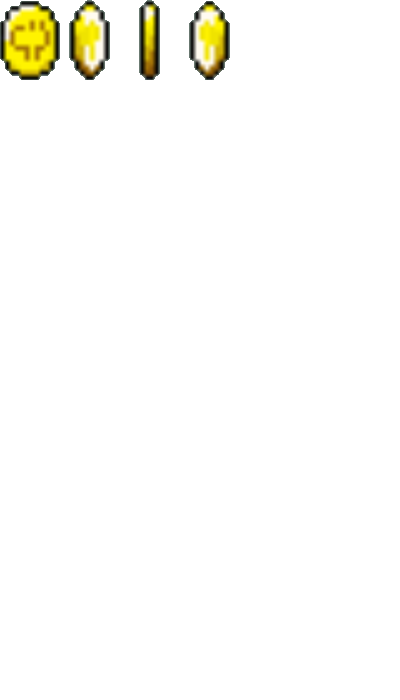
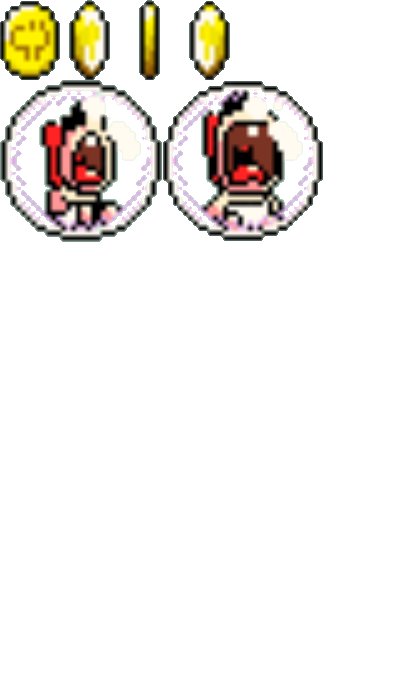
베이비마리오 이탈에 대한 구현 추가

Changed region(s): [[0.0, 0.09, 0.81, 0.36]]

diff --git a/item.py b/item.py
@@ -1,0 +1,131 @@
+import random
+from pico2d import *
+X= 0
+Y= 1
+
+class Item:
+    image = None
+    def __init__(self,x,y):
+        if Item.image == None:
+            Item.image = load_image('item.png')
+        self.x = x
+        self.y = y
+
+
+class Coin(Item):
+    frame = None
+    def __init__(self,x,y):
+        super(Coin, self).__init__(x,y)
+        self.size = [45,60]
+
+
+        if Coin.frame == None:
+            Coin.frame = 0
+
+    def draw(self,left,bottom,right,top):
+        Item.image.clip_draw(
+            60*int(Coin.frame),
+            700-80,
+            60,
+            80,
+            self.x - left + self.size[X] // 2,
+            self.y - bottom + self.size[Y] // 2,
+            self.size[X],
+            self.size[Y]
+        )
+
+    def update(self, l,b,r,t):
+        Coin.frame = (Coin.frame+0.01) % 4
+        from stage import myRect
+        temp = myRect(l,b,r,t)
+        if self.myIntersectRect(temp):
+            return 100
+
+
+    # TODO: 나중에 game_World에 넣고서 충돌체크 리팩토링 하고선 지우기
+    def myIntersectRect(self, rect):
+        if rect.left == -1: return
+        bVertical = False
+        bHorizontal = False
+
+        if self.x < rect.right and self.x + 70 > rect.left:
+            bHorizontal = True
+
+        if self.y + 85 > rect.bottom and self.y < rect.top:
+            bVertical = True
+
+        if bVertical and bHorizontal:
+            return True
+        else:
+            return False
+
+
+LEFT = 0
+RIGHT = 1
+class BabyMario(Item):
+    frame = None
+    def __init__(self,x,y):
+        super(BabyMario, self).__init__(x,y)
+        if BabyMario.frame == None:
+            BabyMario.frame = 0
+        self.size = [81,81]
+        self.gravity = 0
+        self.face = LEFT
+        self.up = False
+
+    def update(self,l,b,r,t):
+        BabyMario.frame = (BabyMario.frame+0.1)%2
+        from stage import myRect
+        if self.face == LEFT:
+            self.x-=1
+        else:
+            self.x +=1
+        self.y += self.gravity
+        if self.up:
+            self.gravity -= 0.5
+            if self.gravity == -10 :
+                self.up = False
+        else:
+            self.gravity += 0.5
+            if self.gravity == 10:
+                self.up=True
+                if random.randint(0,4)==0:
+                    if self.face ==LEFT:
+                        self.face = RIGHT
+                    else:
+                        self.face = LEFT
+
+
+        temp = myRect(l, b, r, t)
+        if self.myIntersectRect(temp):
+            return 100
+
+    def draw(self,left,bottom,right,top):
+        Item.image.clip_draw(
+            162*int(BabyMario.frame),
+            700-80-162,
+            162,
+            162,
+            self.x - left + self.size[X] // 2,
+            self.y - bottom + self.size[Y] // 2,
+            self.size[X],
+            self.size[Y]
+        )
+
+    # TODO: 나중에 game_World에 넣고서 충돌체크 리팩토링 하고선 지우기
+    def myIntersectRect(self, rect):
+        if rect.left == -1: return
+        bVertical = False
+        bHorizontal = False
+
+        if self.x < rect.right and self.x + 70 > rect.left:
+            bHorizontal = True
+
+        if self.y + 85 > rect.bottom and self.y < rect.top:
+            bVertical = True
+
+        if bVertical and bHorizontal:
+            return True
+        else:
+            return False
+

diff --git a/stage.py b/stage.py
@@ -1,7 +1,8 @@
 from pico2d import *
 import yoshi_character
 import stage_select_state
-from coin import Coin
+from item import Coin
+from item import BabyMario
 import play_state
 X = 0
 Y = 1
@@ -137,6 +138,9 @@ class StageState:
             Coin(5100,3070),
             Coin(5150,3050)
         ]
+
+        self.babymario = None
+
         self.finishLine = myRect(5747,2870,6139,3262)
 
         self.coin_num = 0
@@ -197,6 +201,10 @@ class StageState:
         for coin in self.coins:
             coin.draw(self.cameraPos[X],self.cameraPos[Y],self.cameraPos[X]+self.cameraSize[X],self.cameraPos[Y]+self.cameraSize[Y])
 
+        #베이비마리오 그리기
+        if self.babymario!=None:
+            self.babymario.draw(self.cameraPos[X],self.cameraPos[Y],self.cameraPos[X]+self.cameraSize[X],self.cameraPos[Y]+self.cameraSize[Y])
+
         #충돌체크 사각형 출력
         # for rect in self.groundRect:
         #     if rect.myIntersectRect(self.cameraPos[X], self.cameraPos[Y], self.cameraPos[X] + self.cameraSize[X],self.cameraPos[Y] + self.cameraSize[Y]):
@@ -218,6 +226,11 @@ class StageState:
             if coin.update(play_state.yoshi.x,play_state.yoshi.y,play_state.yoshi.size[X]+play_state.yoshi.x,play_state.yoshi.y+play_state.yoshi.size[Y])==100:
                 self.coins.remove(coin)
                 self.coin_num+=1
+        if self.babymario!= None:
+            if self.babymario.update(play_state.yoshi.x,play_state.yoshi.y,play_state.yoshi.size[X]+play_state.yoshi.x,play_state.yoshi.y+play_state.yoshi.size[Y]) == 100:
+                play_state.yoshi.state = "MARIO"
+                self.babymario = None
+
     def cameraMove(self):
         self.cameraPos[X] += self.dir[X]*self.cameraSpeed
         self.cameraPos[Y] += self.dir[Y]*self.cameraSpeed

diff --git a/yoshi_character.py b/yoshi_character.py
@@ -2,6 +2,8 @@ from pico2d import *
 import random
 import game_framework
 import finish_state
+import play_state
+import item
 
 yoshi_state = {"MARIO": 0 , "NOMARIO":1, "MARIO_SWALLOW":2, "NOMARIO_SWALLOW":3}
 X = 0
@@ -727,7 +729,9 @@ class Yoshi:
         from stage import myRect
         a = myRect(enemies.x, enemies.y, enemies.x+60,enemies.y+80)
         if self.myIntersectRect(a):
-            self.state = "NOMARIO"
+            if self.state == "MARIO":
+                self.state = "NOMARIO"
+                play_state.stageState.babymario = item.BabyMario(self.x-80,self.y+80)
     def check_finish(self):
         from play_state import stageState
         if self.myIntersectRect(stageState.finishLine):
